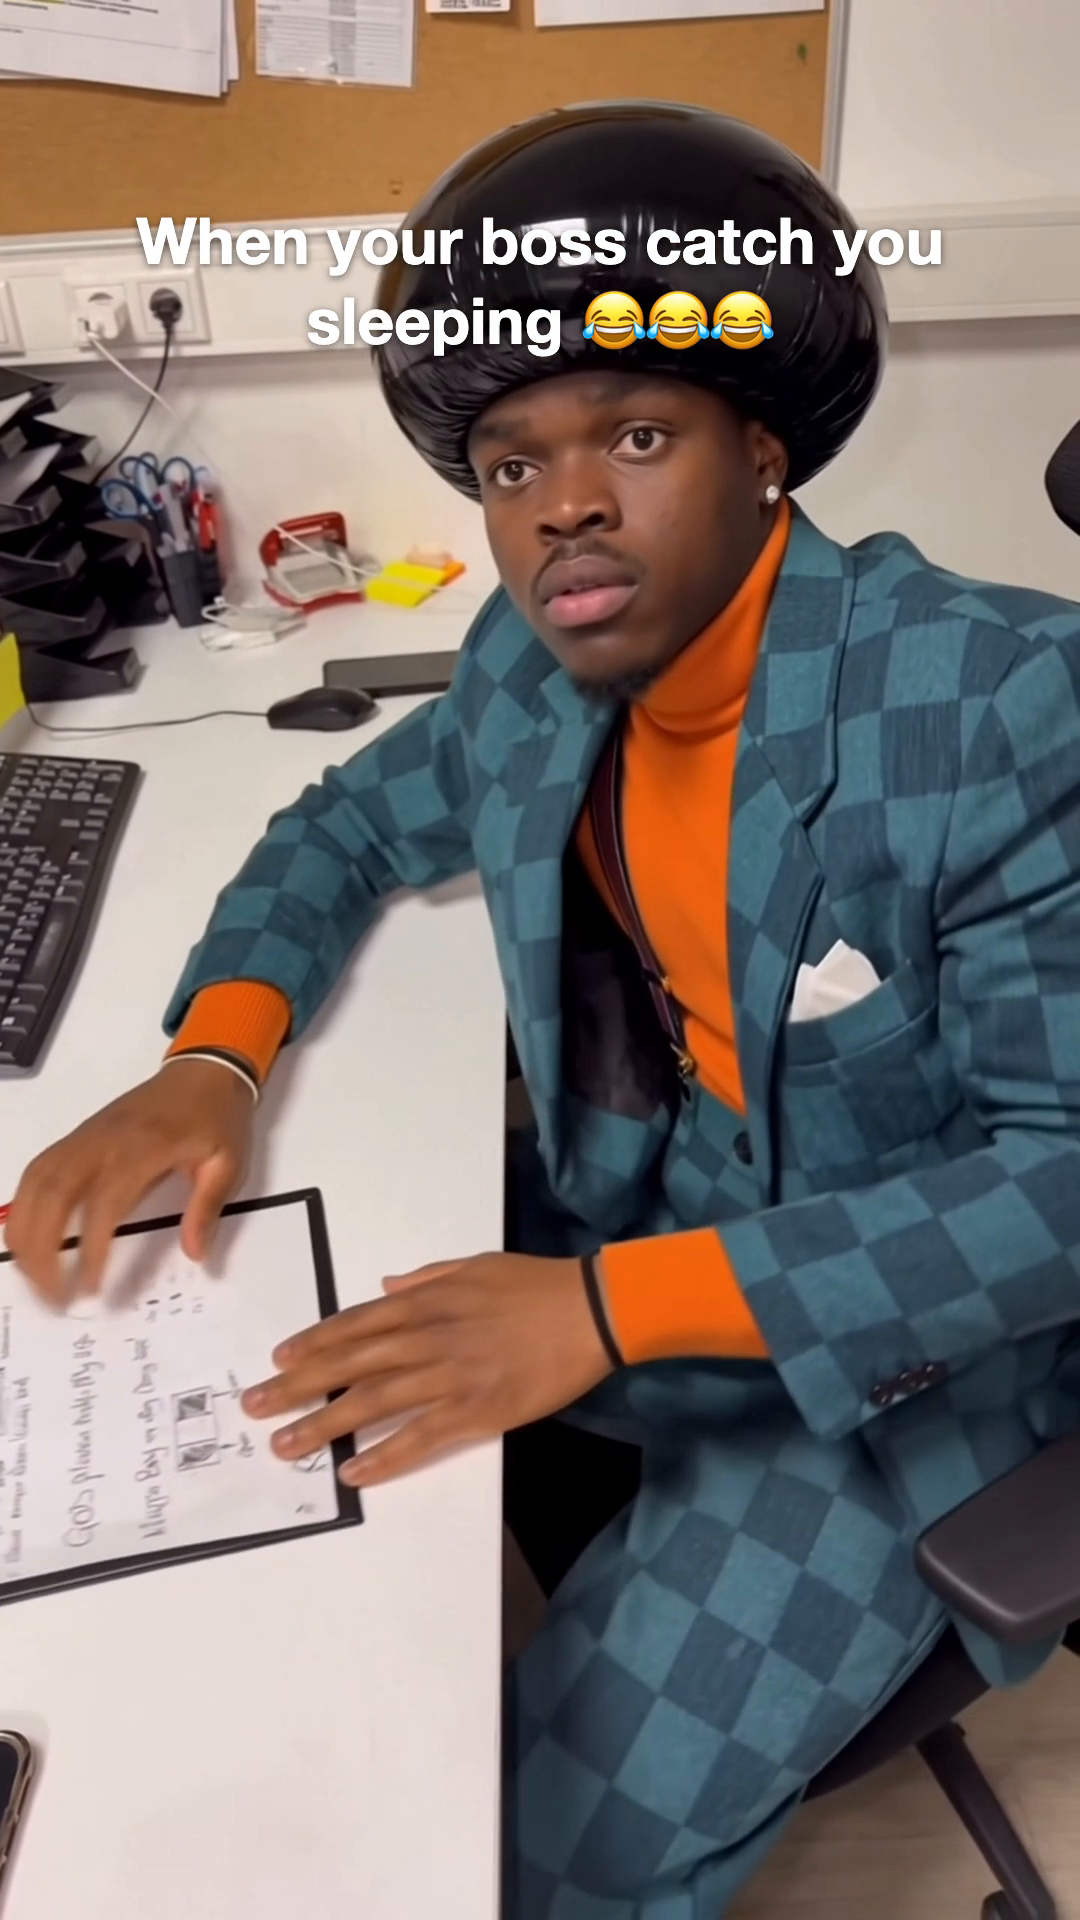
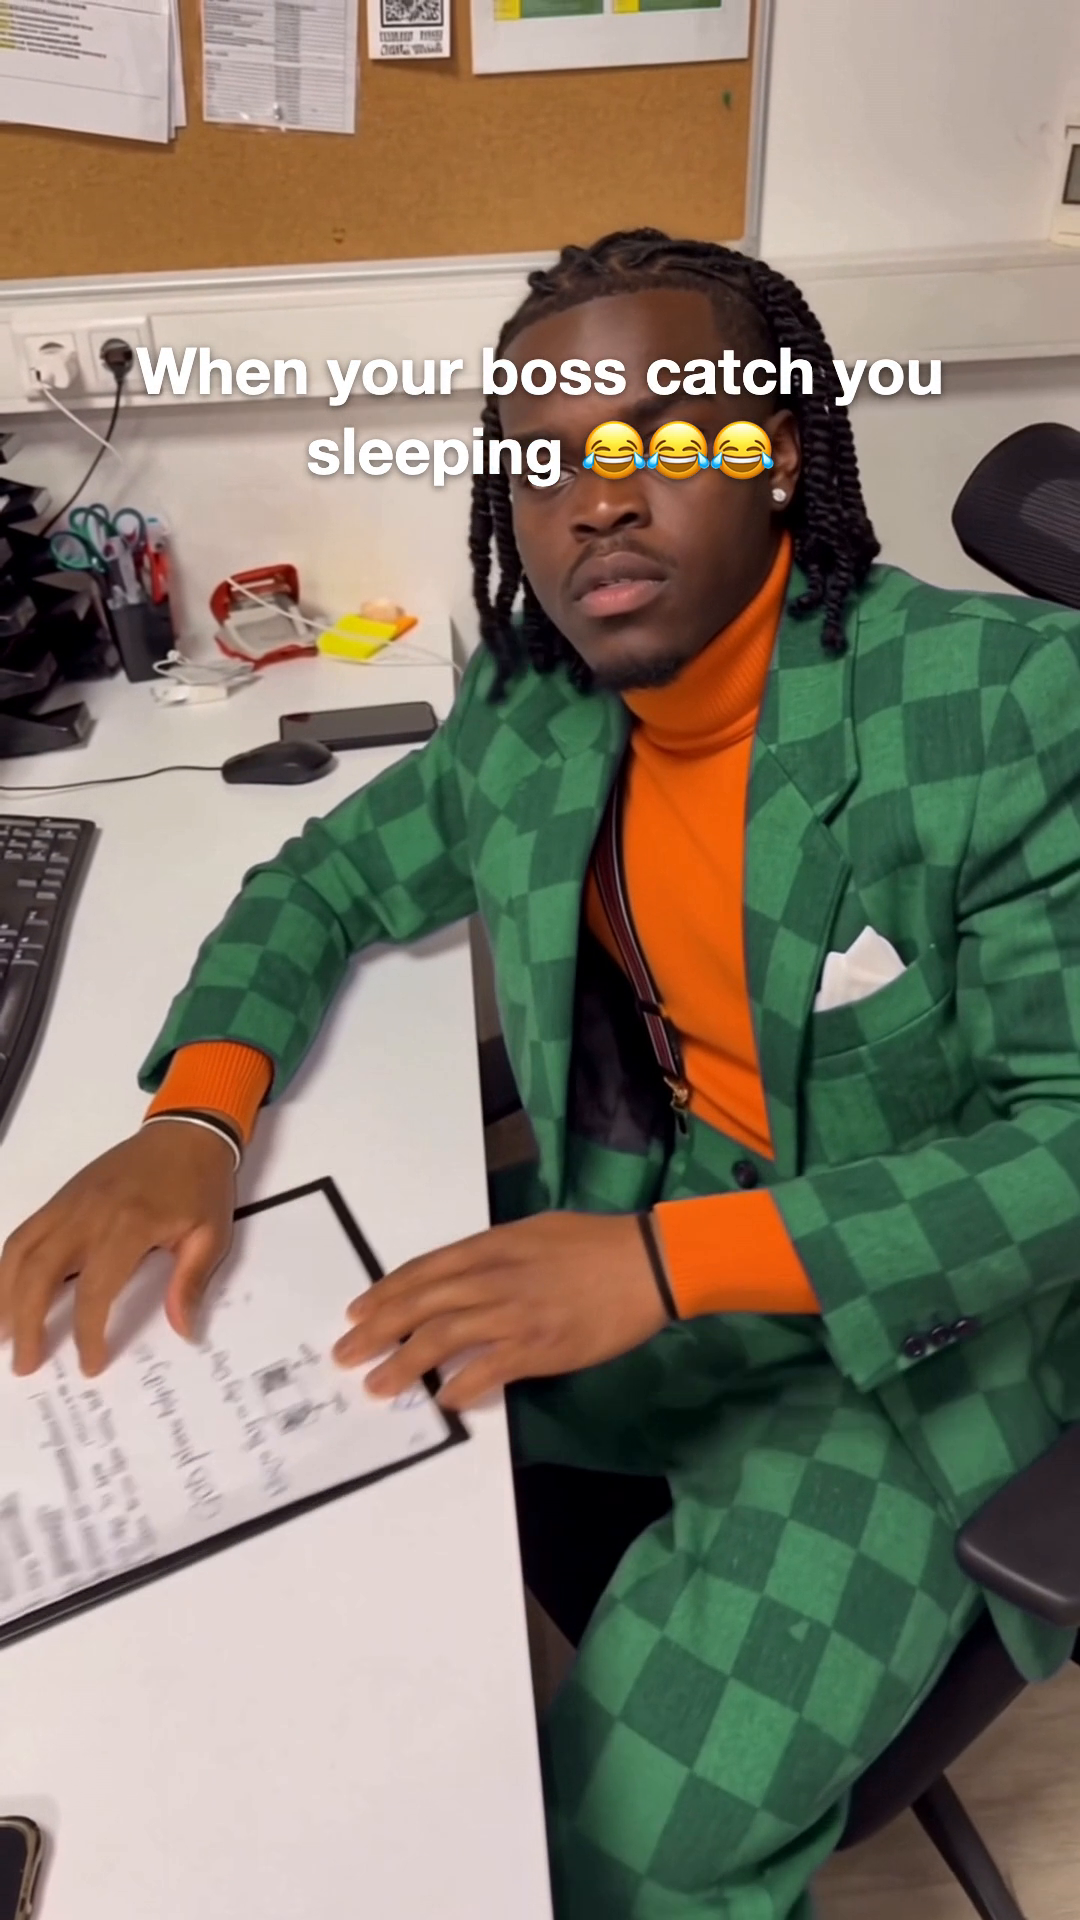
Boss-sleeping swap v2: braids hold (no wig morph), green suit, caption lower

diff --git a/content/2026-W44/ig-personal-fri-2030-swap-boss-catch-you-sleeping/copy.md b/content/2026-W44/ig-personal-fri-2030-swap-boss-catch-you-sleeping/copy.md
@@ -23,3 +23,5 @@ Model (kie.ai): kling-4.0/reference-to-video 720p, 15 s, 9:16. @Korede element f
 The original's burned-in caption and creator handle are gone (Kling renders every frame fresh, prompted for no text). Our own clean caption is overlaid with Playwright + ffmpeg, kept in the top band so it never covers his face.
 Face QA: the reveal reads as Korede (round face, broad nose, full lips, goatee, diamond studs); tall and lean. Known flaw: his braids morph into the bowl wig at about 8 s while his head is down. Korede to judge.
 No end card, so no comment keyword. Status draft.
+
+v2 (2026-10-24, Korede's fixes): regenerated with kling-4.0/reference-to-video (task ae45410cd66e4eacd13b5544bde69fd3, 510 credits, $2.55; prompt in src/kling-prompt-v2.txt) asking for his own twist braids the entire time and no wig/hat/helmet; the braids now hold through 7 to 9 s and the reveal (bowl wig gone). Kling ignored "green suit", so the suit is recoloured in post: ffmpeg huesaturation=hue=-55:colors=c+b:strength=20:saturation=0.1 (only cyans/blues; orange turtleneck, skin, desk untouched). Caption moved down to top 330 px (src/caption.mjs). Original audio still copied bit for bit (md5 matched). Likeness checked side by side with cafe/plate refs: braids, studs, goatee, broad nose and full lips match; face reads a touch longer than v1. v1 kept at scratchpad out/boss-v1-backup.mp4.
